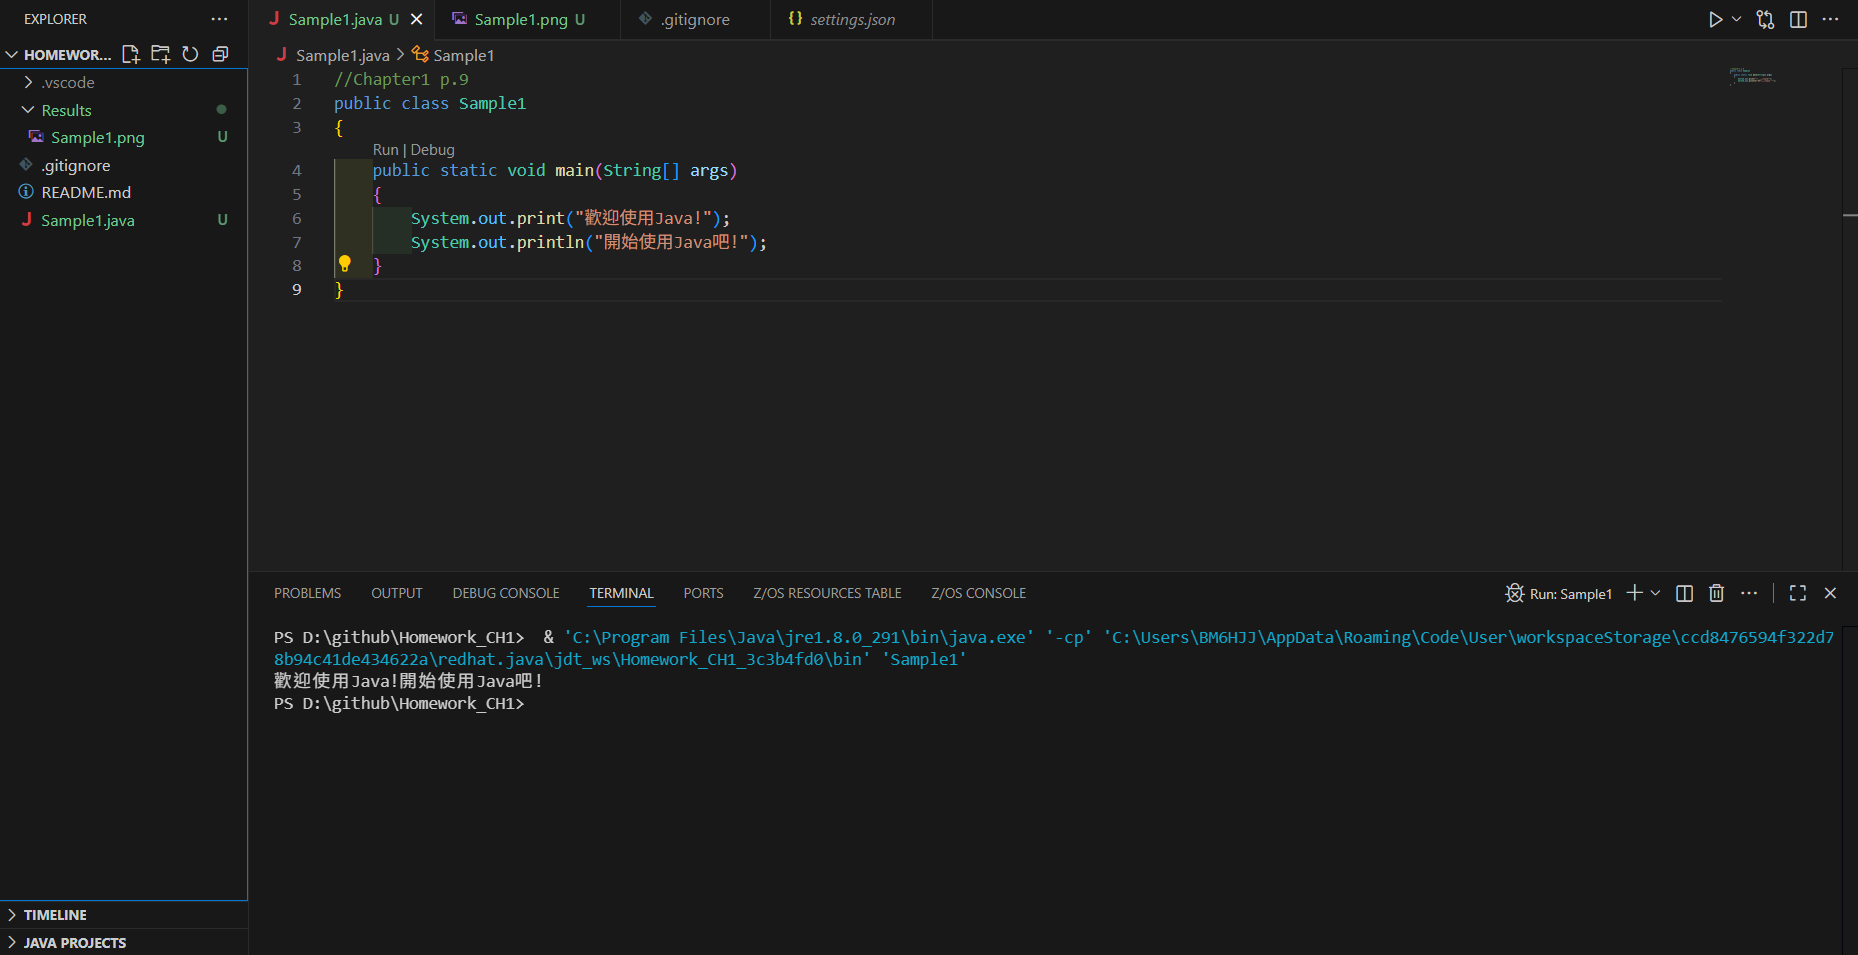
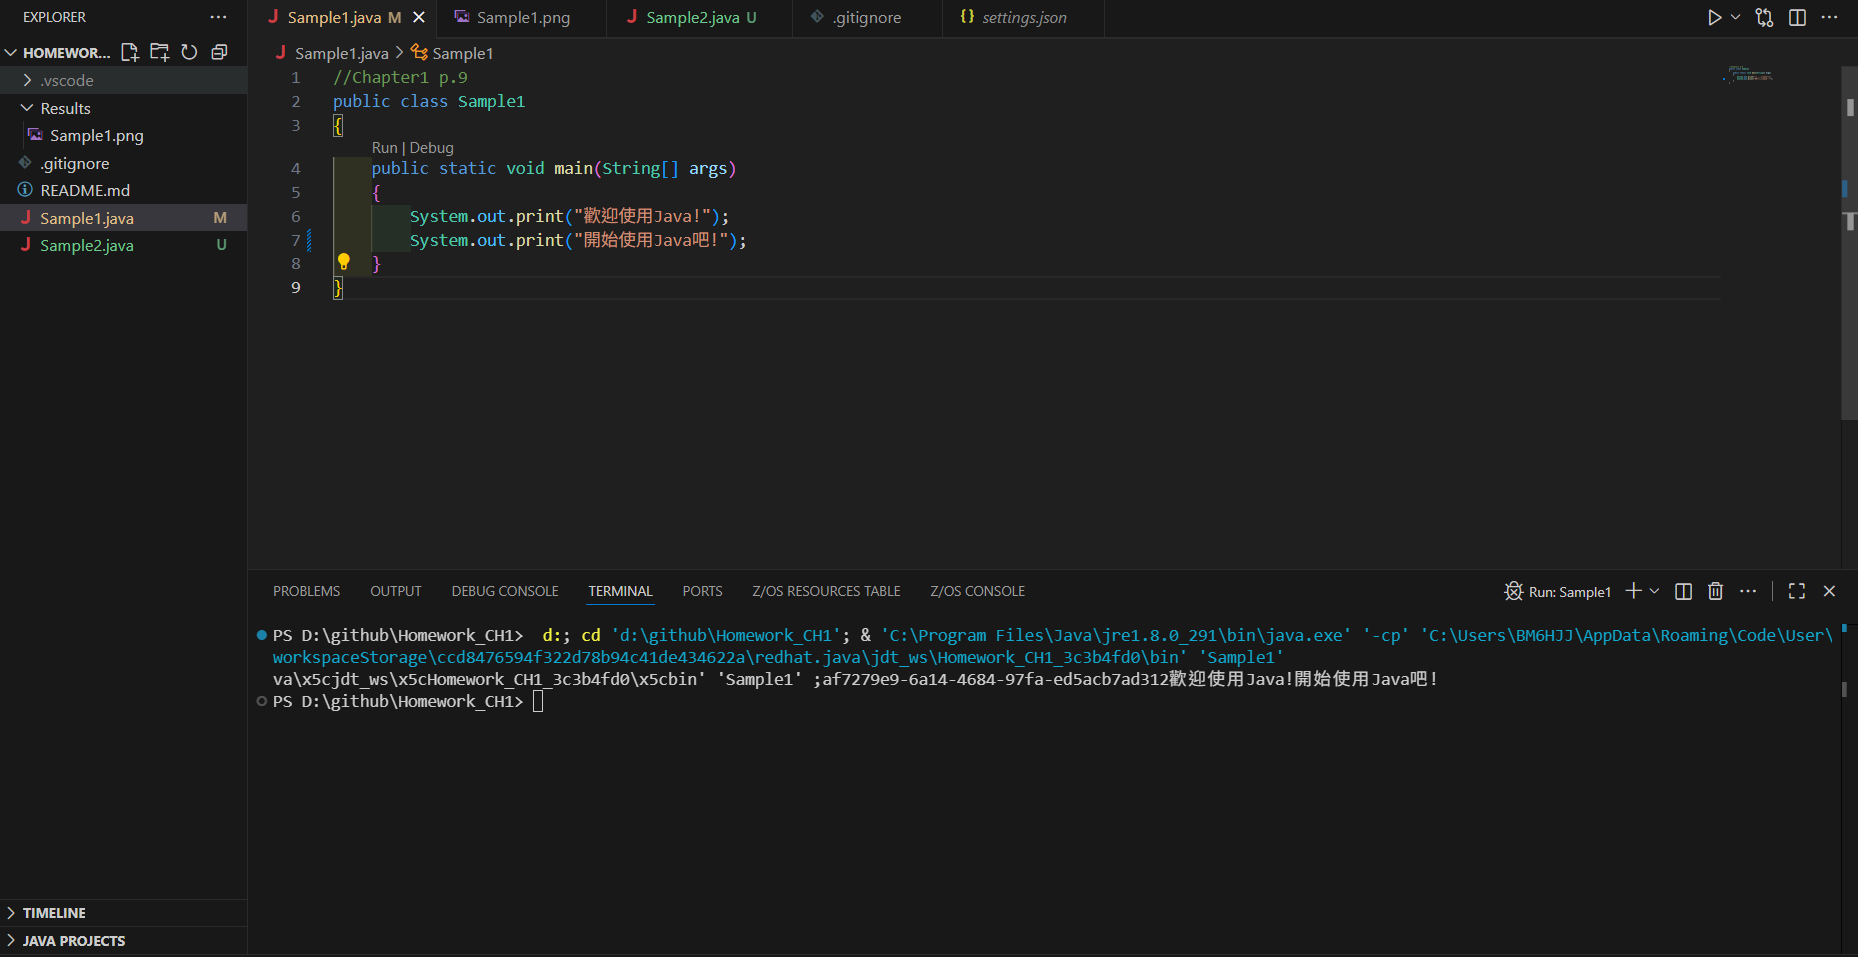
Fix: 修正 Sample1語法錯誤

diff --git a/Sample1.java b/Sample1.java
@@ -4,6 +4,6 @@ public class Sample1
     public static void main(String[] args)
     {
         System.out.print("歡迎使用Java!");
-        System.out.println("開始使用Java吧!");
+        System.out.print("開始使用Java吧!");
     }
 }
